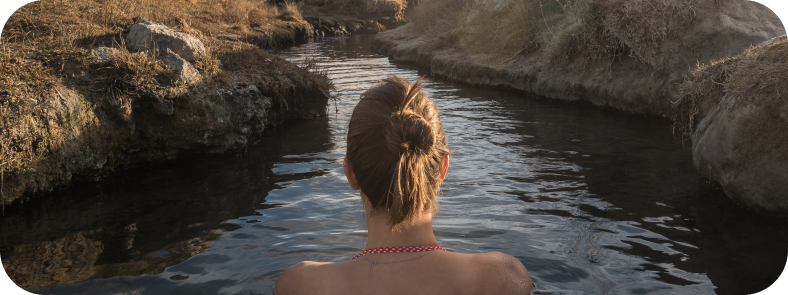
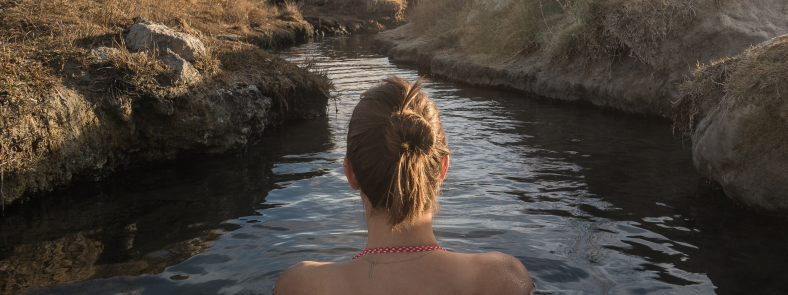
0517 honeymoon 圖片R角

diff --git a/20230515 honeymoon/honeymoon.html b/20230515 honeymoon/honeymoon.html
@@ -141,7 +141,7 @@
                 <!-- 圖片區塊 -->
                 <div class="honeymoon-content-imagebox">
                     <!-- 圖 -->
-                    <img class="honeymoon-content-image" src="../images/honeymoon-image (1).png">
+                    <img class="honeymoon-content-image" src="../images/Honeymoon-image (1).png">
                     <!-- 數字標示 -->
                     <p class="honeymoon-content-image-p">01</p>
                 </div>
@@ -170,7 +170,7 @@
                 <!-- 圖片區塊 -->
                 <div class="honeymoon-content-imagebox">
                     <!-- 圖 -->
-                    <img src="../images/honeymoon-image (2).png">
+                    <img class="honeymoon-content-image" src="../images/Honeymoon-image (2).png">
                     <!-- 數字標示 -->
                     <p class="honeymoon-content-image-p">02</p>
                 </div>
@@ -198,7 +198,7 @@
                 <!-- 圖片區塊 -->
                 <div class="honeymoon-content-imagebox">
                     <!-- 圖 -->
-                    <img src="../images/honeymoon-image (3).png">
+                    <img class="honeymoon-content-image" src="../images/Honeymoon-image (3).png">
                     <!-- 數字標示 -->
                     <p class="honeymoon-content-image-p">03</p>
                 </div>
@@ -225,7 +225,7 @@
                 <!-- 圖片區塊 -->
                 <div class="honeymoon-content-imagebox">
                     <!-- 圖 -->
-                    <img src="../images/honeymoon-image (4).png">
+                    <img class="honeymoon-content-image" src="../images/Honeymoon-image (4).png">
                     <!-- 數字標示 -->
                     <p class="honeymoon-content-image-p">04</p>
                 </div>
@@ -253,7 +253,7 @@
                 <!-- 圖片區塊 -->
                 <div class="honeymoon-content-imagebox">
                     <!-- 圖 -->
-                    <img src="../images/honeymoon-image (5).png">
+                    <img class="honeymoon-content-image" src="../images/Honeymoon-image (5).png">
                     <!-- 數字標示 -->
                     <p class="honeymoon-content-image-p">05</p>
                 </div>
@@ -280,7 +280,7 @@
                 <!-- 圖片區塊 -->
                 <div class="honeymoon-content-imagebox">
                     <!-- 圖 -->
-                    <img src="../images/honeymoon-image (6).png">
+                    <img class="honeymoon-content-image" src="../images/Honeymoon-image (6).png">
                     <!-- 數字標示 -->
                     <p class="honeymoon-content-image-p">06</p>
                 </div>
@@ -308,7 +308,7 @@
                 <!-- 圖片區塊 -->
                 <div class="honeymoon-content-imagebox">
                     <!-- 圖 -->
-                    <img src="../images/honeymoon-image (7).png">
+                    <img class="honeymoon-content-image" src="../images/Honeymoon-image (7).png">
                     <!-- 數字標示 -->
                     <p class="honeymoon-content-image-p">07</p>
                 </div>

diff --git a/20230515 honeymoon/honeymoon.css b/20230515 honeymoon/honeymoon.css
@@ -196,10 +196,12 @@ body {
 .honeymoon-content-imagebox {
     position: relative;
     margin-bottom: 2.1rem;
+
 }
 
 .honeymoon-content-image {
-
+    /* 圖片R角 */
+    border-radius: 2.8rem;
     z-index: -1;
 }
 
